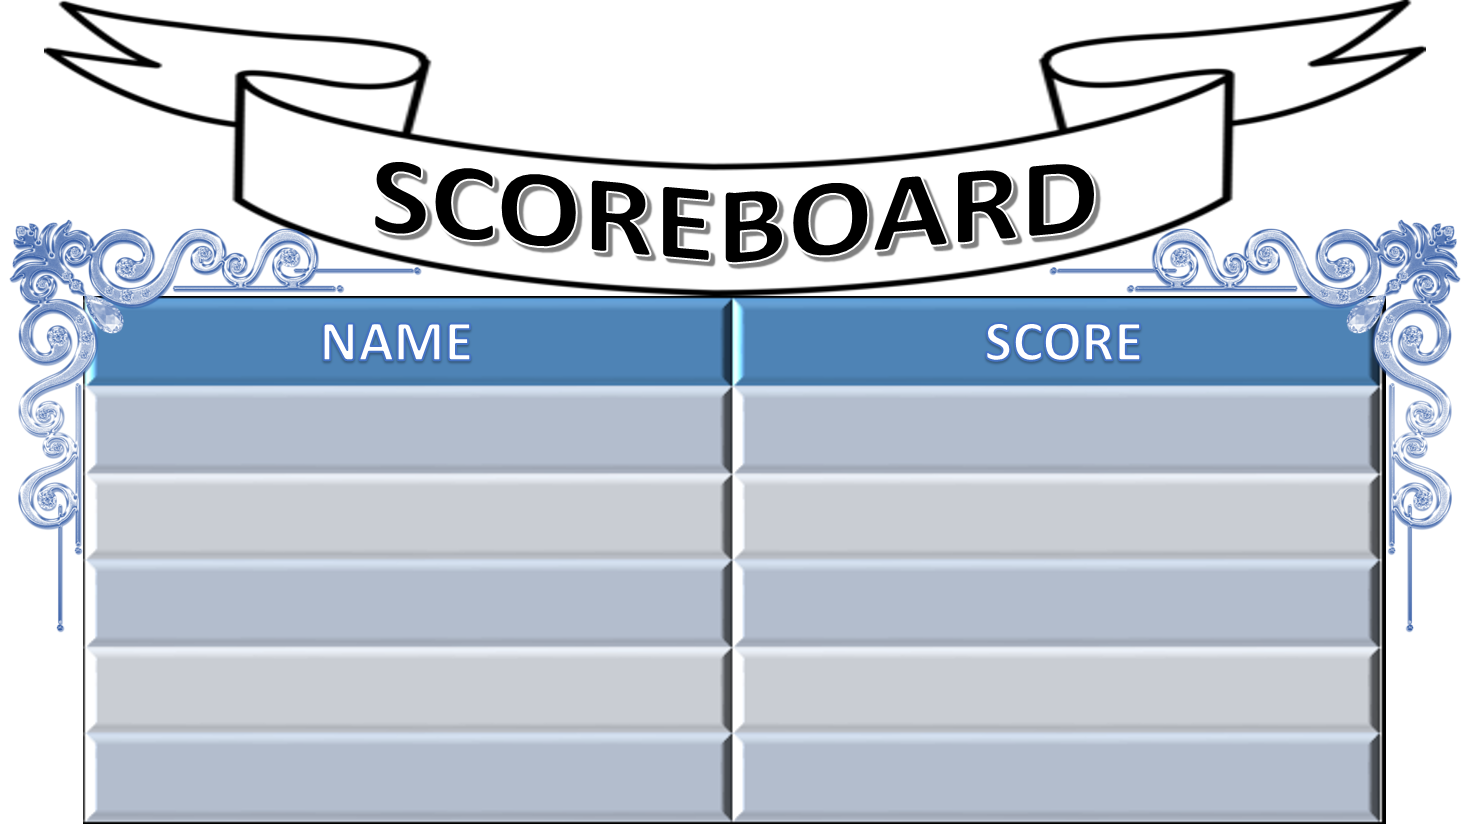
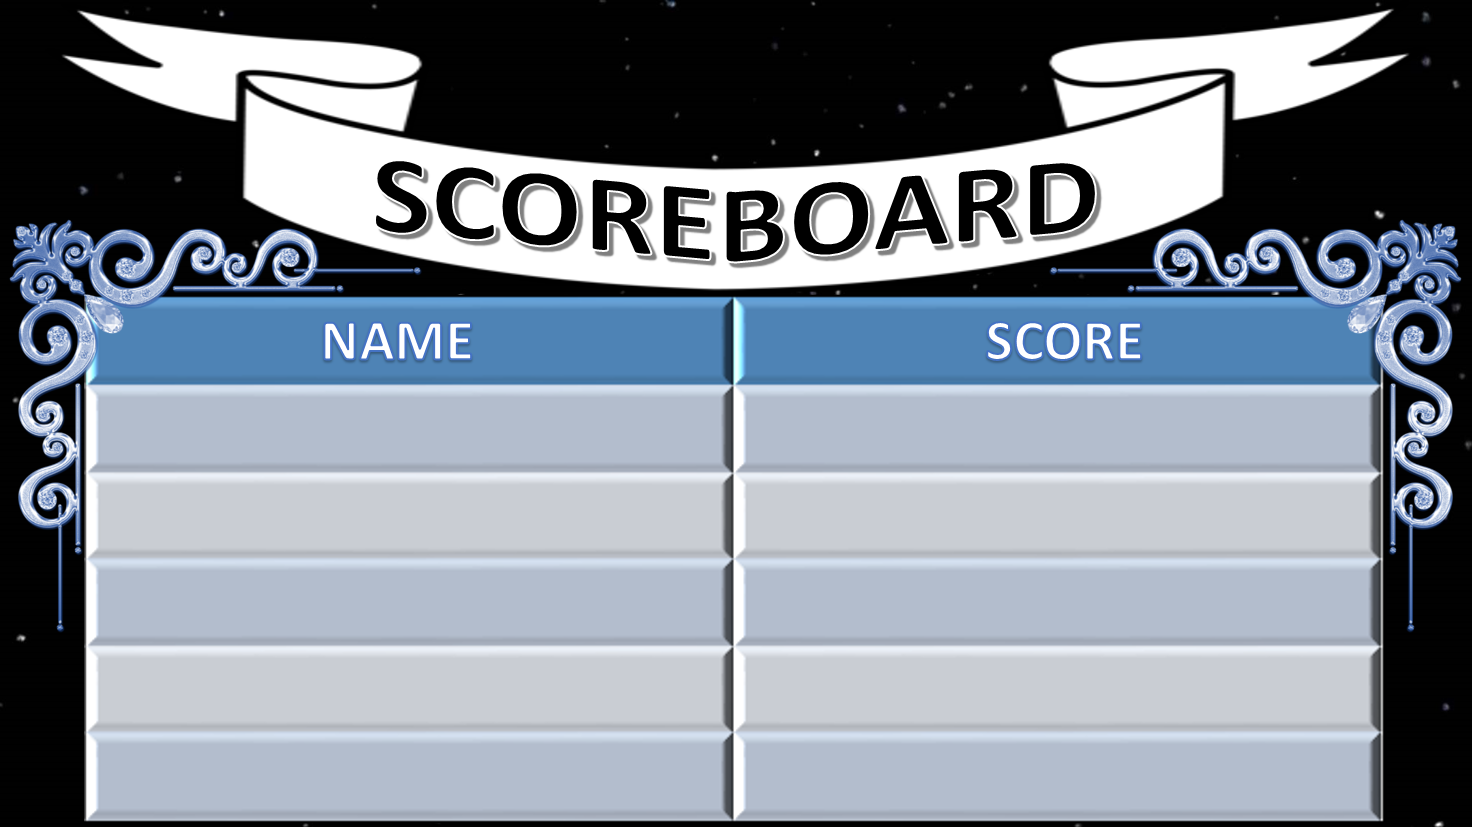
Added Scoring and modified TAB_KEY for scoreBoard

diff --git a/src/game/ScoreBoard.java b/src/game/ScoreBoard.java
@@ -9,77 +9,111 @@ import javax.swing.text.*;
 
 public class ScoreBoard extends JPanel{
 
-    private static JLabel user1;
-    private static JLabel score1;
+	private static JLabel user1;
+	private static JLabel score1;
 
-    private static JLabel user2;
-    private static JLabel score2;
+	private static JLabel user2;
+	private static JLabel score2;
 
-    private static JLabel user3;
-    private static JLabel score3;
+	private static JLabel user3;
+	private static JLabel score3;
 
-    private static JLabel user4;
-    private static JLabel score4;
+	private static JLabel user4;
+	private static JLabel score4;
 
-    private static JLabel user5;
-    private static JLabel score5;
+	private static JLabel user5;
+	private static JLabel score5;
 
-    public ScoreBoard(String uname){
-        super();
-        setLayout(null);
+	public ScoreBoard(){
+		super();
+		setLayout(null);
 
+		setBackground(Color.BLACK);
 
-        user1 = new JLabel("username", SwingConstants.CENTER);
-        user2 = new JLabel("username", SwingConstants.CENTER);
-        user3 = new JLabel("username", SwingConstants.CENTER);
-        user4 = new JLabel("username", SwingConstants.CENTER);
-        user5 = new JLabel("username", SwingConstants.CENTER);
-        
-        score1 = new JLabel("999999", SwingConstants.CENTER);
-        score2 = new JLabel("999999", SwingConstants.CENTER);
-        score3 = new JLabel("999999", SwingConstants.CENTER);
-        score4 = new JLabel("999999", SwingConstants.CENTER);
-        score5 = new JLabel("999999", SwingConstants.CENTER);
+		user1 = new JLabel("-----", SwingConstants.CENTER);
+		user2 = new JLabel("-----", SwingConstants.CENTER);
+		user3 = new JLabel("-----", SwingConstants.CENTER);
+		user4 = new JLabel("-----", SwingConstants.CENTER);
+		user5 = new JLabel("-----", SwingConstants.CENTER);
+		
+		score1 = new JLabel("00000", SwingConstants.CENTER);
+		score2 = new JLabel("00000", SwingConstants.CENTER);
+		score3 = new JLabel("00000", SwingConstants.CENTER);
+		score4 = new JLabel("00000", SwingConstants.CENTER);
+		score5 = new JLabel("00000", SwingConstants.CENTER);
 
-        ImageIcon image = new ImageIcon("./src/img/scoreBoard.png");
-        Image img = Util.resizeImage(image, 200, 300);
-        JLabel background = new JLabel();
-        ImageIcon icon = new ImageIcon(img);
+		ImageIcon image = new ImageIcon("./src/img/scoreBoard.png");
+		Image img = Util.resizeImage(image, 400, 250);
+		JLabel background = new JLabel();
+		ImageIcon icon = new ImageIcon(img);
 
-        background.setIcon(icon);
-        background.setBounds(0, 0, 600, 400);
-        background.setOpaque(false);
+		background.setIcon(icon);
+		background.setBounds(0, 0, 400, 250);
+		background.setOpaque(false);
 
-        user1.setBounds(63,43,120,30);
-        /*healthField.setBounds(66,100,100,30);
-        damageField.setBounds(60,163,40,30);
-        armorField.setBounds(135,163,40,30);
-        scoreField.setBounds(66,225,100,30);
-        bulletField.setBounds(90,10,100,30);*/
+		user1.setBounds(50,112,120,30);
+		user2.setBounds(50,139,120,30);
+		user3.setBounds(50,167,120,30);
+		user4.setBounds(50,195,120,30);
+		user5.setBounds(50,223,120,30);
 
-        user1.setFont(new Font("Serif", Font.BOLD, 20));
-        user2.setFont(new Font("Serif", Font.BOLD, 20));
-        user3.setFont(new Font("Serif", Font.BOLD, 20));
-        user4.setFont(new Font("Serif", Font.BOLD, 20));
-        user5.setFont(new Font("Serif", Font.BOLD, 20));
-        score1.setFont(new Font("Serif", Font.BOLD, 20));
-        score2.setFont(new Font("Serif", Font.BOLD, 20));
-        score3.setFont(new Font("Serif", Font.BOLD, 20));
-        score4.setFont(new Font("Serif", Font.BOLD, 20));
-        score5.setFont(new Font("Serif", Font.BOLD, 20));
-        
+		score1.setBounds(230,112,120,30);
+		score2.setBounds(230,139,120,30);
+		score3.setBounds(230,167,120,30);
+		score4.setBounds(230,195,120,30);
+		score5.setBounds(230,223,120,30);
 
-        setPreferredSize(new Dimension(600,400));
-        add(user1);
-        add(user2);
-        add(user3);
-        add(user4);
-        add(user5);
-        add(score1);
-        add(score2);
-        add(score3);
-        add(score4);
-        add(score5);
-        add(background);
-    }
+		user1.setFont(new Font("Serif", Font.BOLD, 20));
+		user2.setFont(new Font("Serif", Font.BOLD, 20));
+		user3.setFont(new Font("Serif", Font.BOLD, 20));
+		user4.setFont(new Font("Serif", Font.BOLD, 20));
+		user5.setFont(new Font("Serif", Font.BOLD, 20));
+		score1.setFont(new Font("Serif", Font.BOLD, 20));
+		score2.setFont(new Font("Serif", Font.BOLD, 20));
+		score3.setFont(new Font("Serif", Font.BOLD, 20));
+		score4.setFont(new Font("Serif", Font.BOLD, 20));
+		score5.setFont(new Font("Serif", Font.BOLD, 20));
+		
+
+		setPreferredSize(new Dimension(400,250));
+		add(user1);
+		add(user2);
+		add(user3);
+		add(user4);
+		add(user5);
+		add(score1);
+		add(score2);
+		add(score3);
+		add(score4);
+		add(score5);
+		add(background);
+	}
+
+	public static void updateData(String data){
+		String[] playerScores = data.split(", ");
+		int top = 0;
+
+		if(playerScores.length>=5) top = 5;
+		else top = playerScores.length;
+
+		switch (top) {
+			case 5:
+				user5.setText(playerScores[4].split("=")[0]);
+				score5.setText(playerScores[4].split("=")[1]);
+			case 4:
+				user4.setText(playerScores[3].split("=")[0]);
+				score4.setText(playerScores[3].split("=")[1]);
+			case 3:
+				user3.setText(playerScores[2].split("=")[0]);
+				score3.setText(playerScores[2].split("=")[1]);
+			case 2:
+				user2.setText(playerScores[1].split("=")[0]);
+				score2.setText(playerScores[1].split("=")[1]);
+			case 1:
+				user1.setText(playerScores[0].split("=")[0]);
+				score1.setText(playerScores[0].split("=")[1]);
+		}
+
+	}
+
 }

diff --git a/src/game/Boss.java b/src/game/Boss.java
@@ -94,7 +94,7 @@ public class Boss extends GameObject{
 
 					if(health<(orig_health*0.15)){
 						int chance = random.nextInt(100) + 1;
-						regen = (int)(orig_health*0.025);
+						regen = (int)(orig_health*0.035);
 
 						if(chance>=80 && chance<=85){
 							health += (int)(orig_health*0.25);
@@ -146,18 +146,18 @@ public class Boss extends GameObject{
 						game.send("BOSSBULLET BULLET "+x+" "+bulletStart+" "+damage);
 
 						if(health<(orig_health*0.80)){
-							hand.addObject(new BossBullet(x+40,y,hand,ObjectId.BossBullet,damage));
-							hand.addObject(new BossBullet(x+40,y+height,hand,ObjectId.BossBullet,damage));
-							game.send("BOSSBULLET BULLET "+(x+40)+" "+y+" "+damage);
-							game.send("BOSSBULLET BULLET "+(x+40)+" "+(y+height)+" "+damage);
+							hand.addObject(new BossBullet(x+40,y,hand,ObjectId.BossBullet,damage+15));
+							hand.addObject(new BossBullet(x+40,y+height,hand,ObjectId.BossBullet,damage+15));
+							game.send("BOSSBULLET BULLET "+(x+40)+" "+y+" "+(damage+15));
+							game.send("BOSSBULLET BULLET "+(x+40)+" "+(y+height)+" "+(damage+15));
 						}
 
 
 						if(health<(orig_health*0.40)){
-							hand.addObject(new BossBullet(x+20,bulletStart+(height/4),hand,ObjectId.BossBullet,damage));
-							hand.addObject(new BossBullet(x+20,bulletStart-(height/4),hand,ObjectId.BossBullet,damage));
-							game.send("BOSSBULLET BULLET "+(x+20)+" "+(bulletStart+(height/4))+" "+damage);
-							game.send("BOSSBULLET BULLET "+(x+20)+" "+(bulletStart-(height/4))+" "+damage);
+							hand.addObject(new BossBullet(x+20,bulletStart+(height/4),hand,ObjectId.BossBullet,damage+30));
+							hand.addObject(new BossBullet(x+20,bulletStart-(height/4),hand,ObjectId.BossBullet,damage+30));
+							game.send("BOSSBULLET BULLET "+(x+20)+" "+(bulletStart+(height/4))+" "+(damage+30));
+							game.send("BOSSBULLET BULLET "+(x+20)+" "+(bulletStart-(height/4))+" "+(damage+30));
 						}
 
 
@@ -202,8 +202,8 @@ public class Boss extends GameObject{
 		if(accumulated>=1000){
 			accumulated -= 1000;
 			damage+=50;
-			orig_health+=100;
-			health+=50;
+			orig_health+=200;
+			health+=100;
 			
 			game.send("BUFF BOSS 0 0 "+damage);
 			game.send("REGEN BOSS 0 0 "+health);

diff --git a/GameGUI.java b/GameGUI.java
@@ -15,6 +15,7 @@ public class GameGUI extends JFrame{
 	private static JPanel cards = new JPanel();
 	private static JFrame frame;
 	private static Game game;
+	private static ScoreBoard board;
 	public static String TITLE;
 
 	public GameGUI(String title) throws Exception{
@@ -49,6 +50,7 @@ public class GameGUI extends JFrame{
 		westPanel.setLayout(new BorderLayout());
 
 		game = new Game(username,type,max,servername,port);
+		board = new ScoreBoard();
 		chatfield = new ChatField();
 		statField = new StatField(username);
 
@@ -56,8 +58,11 @@ public class GameGUI extends JFrame{
 		westPanel.add(chatfield, BorderLayout.CENTER);
 
 		game.setBounds(-5,0,1000,600);
+		board.setBounds(300,175,400,250);
+		board.setVisible(false);
 
 		gamePanel.setOpaque(false);
+		gamePanel.add(board);
 		gamePanel.add(game);
 
 		mainPanel.add(gamePanel,BorderLayout.CENTER);
@@ -98,6 +103,18 @@ public class GameGUI extends JFrame{
 		gamePanel.add(game);
 
 		return gamePanel;*/
+	}
+
+	public static void showBoard(){
+		board.setVisible(true);
+	}
+
+	public static void hideBoard(){
+		board.setVisible(false);
+	}
+
+	public static void updateScores(String data){
+		ScoreBoard.updateData(data);
 	}
 
 	public static void focusOnGame(){

diff --git a/src/game/Game.java b/src/game/Game.java
@@ -54,7 +54,8 @@ public class Game extends Canvas implements Runnable {
 		}catch(Exception e){
 			System.out.println("ERROR");
 		}
-
+		
+		setFocusTraversalKeysEnabled(false);
 		setPreferredSize(new Dimension(1200, 600));
 	}
 
@@ -286,9 +287,10 @@ public class Game extends Canvas implements Runnable {
 									scores.put(uname,point);
 								}
 
-								String x = Util.entriesSortedByValues(scores).toString();
-								x = x.substring(1, x.length() - 1);
-								System.out.println(x);
+								String scoreString = Util.entriesSortedByValues(scores).toString();
+								scoreString = scoreString.substring(1, scoreString.length() - 1);
+
+								GameGUI.updateScores(scoreString);
 							}
 
 						}

diff --git a/src/game/KeyInput.java b/src/game/KeyInput.java
@@ -1,5 +1,6 @@
 package src.game;
 
+import src.GameGUI;
 import src.chat.*;
 
 import java.awt.*;
@@ -22,6 +23,10 @@ public class KeyInput extends KeyAdapter{
 
 		if(key==KeyEvent.VK_ENTER){
 			ChatField.focusOnChat();
+		}
+
+		if(key==KeyEvent.VK_TAB){
+			GameGUI.showBoard();
 		}
 
 		for(int i=0; i<handler.object.size(); i++){
@@ -65,6 +70,10 @@ public class KeyInput extends KeyAdapter{
 
 	public void keyReleased(KeyEvent ke){
 		int key = ke.getKeyCode();
+
+		if(key==KeyEvent.VK_TAB){
+			GameGUI.hideBoard();
+		}
 
 		for(GameObject tempObject : handler.object){
 			if(tempObject.getId() == ObjectId.SpaceShip){

diff --git a/src/game/Server.java b/src/game/Server.java
@@ -108,7 +108,7 @@ public class Server implements Runnable{
 						startData += "#" + name + " " + player.getX() + " " + player.getY();
 					}
 
-					startData += "#==BOSS==" + " " + boss.getX() + " " + boss.getY() + " " + (numPlayers*3000);
+					startData += "#==BOSS==" + " " + boss.getX() + " " + boss.getY() + " " + (5000+((numPlayers-1)*3000));
 
 					broadcast(startData);
 					gameStage=IN_PROGRESS;

diff --git a/src/game/Util.java b/src/game/Util.java
@@ -27,4 +27,11 @@ class Util {
 
 		return sortedEntries;
 	}
+
+	public static void printStringArray(String[] arr){
+		for(int i=0;i<arr.length;i++){
+			System.out.print(arr[i] + " === ");
+		}
+		System.out.println();
+	}
 }
